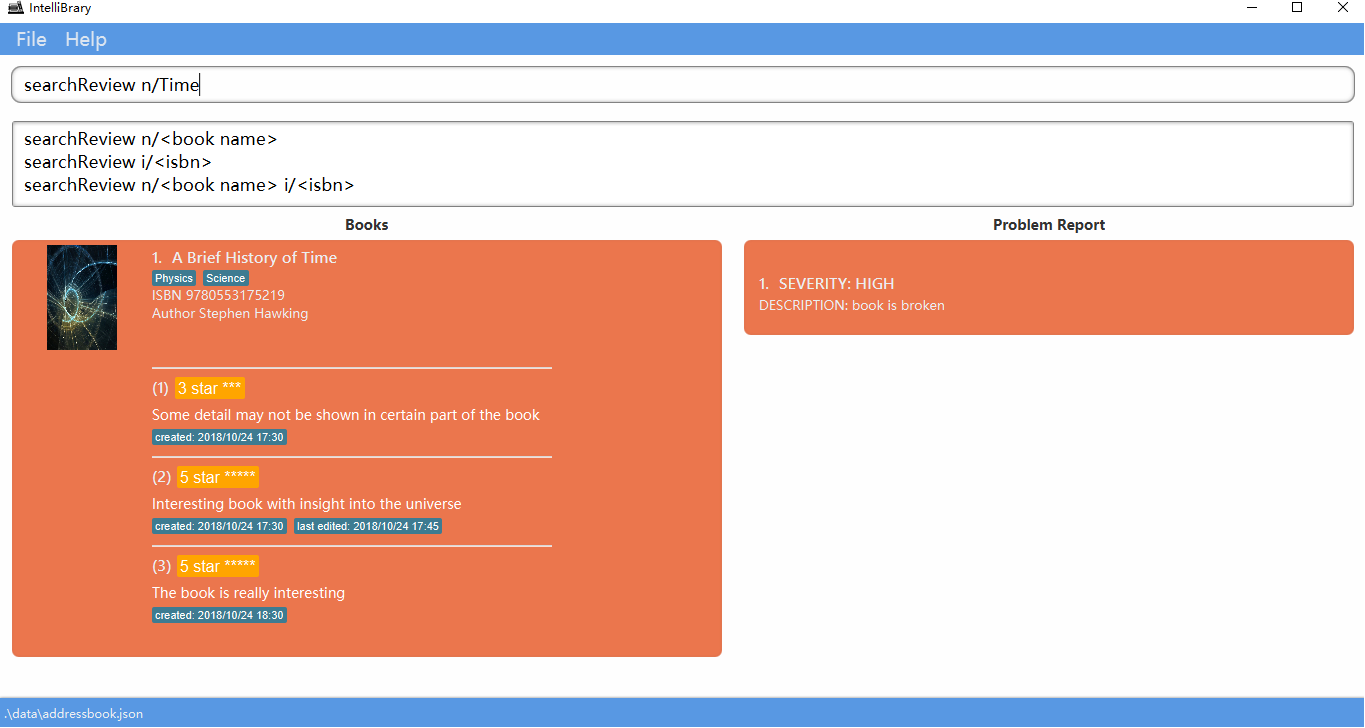
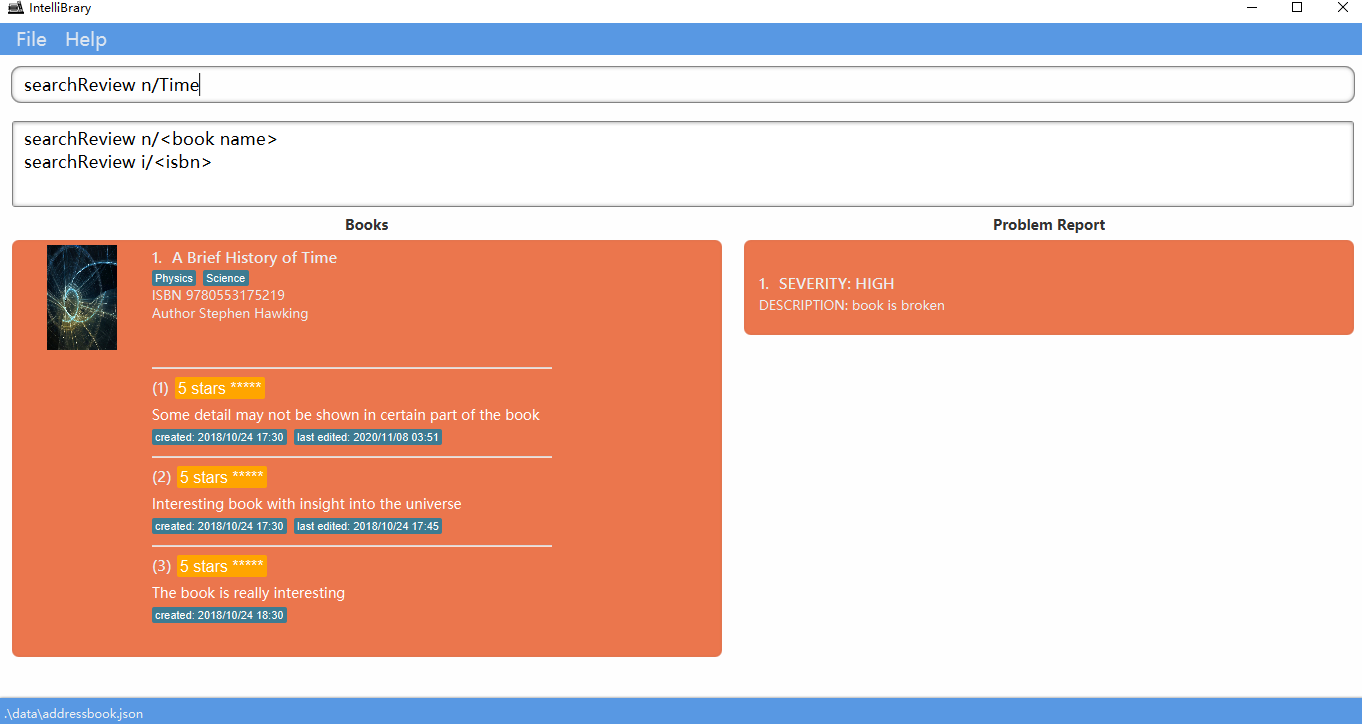
Implement the service

diff --git a/src/main/java/seedu/address/logic/parser/ParserUtil.java b/src/main/java/seedu/address/logic/parser/ParserUtil.java
@@ -194,36 +194,35 @@ public class ParserUtil {
 
         int count = matcher.groupCount();
         HashMap<String, Integer> stockingInLocation = new HashMap<>();
-        if (matcher.find() && Stocking.isValidStocking(stocking)) {
-            List<String> locations = Arrays.asList(Stocking.LOCATION);
-            locations.forEach((location) -> {
-                stockingInLocation.put(location, 0);
-            });
-            for (int i = 1; i <= count; i = i + 2) {
-                if ((matcher.group(i) == null && matcher.group(i + 1) != null)
-                        || (matcher.group(i) != null && matcher.group(i + 1) == null)) {
+        if (!matcher.find() || !Stocking.isValidStocking(stocking)) {
+            throw new ParseException(Stocking.MESSAGE_CONSTRAINTS);
+        }
+        List<String> locations = Arrays.asList(Stocking.LOCATION);
+        locations.forEach((location) -> {
+            stockingInLocation.put(location, 0);
+        });
+        for (int i = 1; i <= count; i = i + 2) {
+            if ((matcher.group(i) == null && matcher.group(i + 1) != null)
+                    || (matcher.group(i) != null && matcher.group(i + 1) == null)) {
+                throw new ParseException(Stocking.MESSAGE_CONSTRAINTS);
+            }
+            if (matcher.group(i) != null && matcher.group(i + 1) != null) {
+                String currentLocation = matcher.group(i).strip();
+                int currentCount;
+                try {
+                    currentCount = Integer.parseInt(matcher.group(i + 1).strip());
+                } catch (Exception exception) {
                     throw new ParseException(Stocking.MESSAGE_CONSTRAINTS);
                 }
-                if (matcher.group(i) != null && matcher.group(i + 1) != null) {
-                    String currentLocation = matcher.group(i).strip();
-                    int currentCount;
-                    try {
-                        currentCount = Integer.parseInt(matcher.group(i + 1).strip());
-                    } catch (Exception exception) {
-                        throw new ParseException(Stocking.MESSAGE_CONSTRAINTS);
-                    }
-                    if (currentCount < 0 || currentCount > 9999999) {
-                        throw new ParseException(Stocking.NUMBER_CONSTRAINTS);
-                    }
-                    locations.forEach((location) -> {
-                        if (location.toUpperCase().equals(currentLocation.toUpperCase())) {
-                            stockingInLocation.put(location, currentCount);
-                        }
-                    });
+                if (currentCount < 0 || currentCount > 9999999) {
+                    throw new ParseException(Stocking.NUMBER_CONSTRAINTS);
                 }
+                locations.forEach((location) -> {
+                    if (location.toUpperCase().equals(currentLocation.toUpperCase())) {
+                        stockingInLocation.put(location, currentCount);
+                    }
+                });
             }
-        } else {
-            throw new ParseException(Stocking.MESSAGE_CONSTRAINTS);
         }
         return new Stocking(stockingInLocation);
     }

diff --git a/src/main/java/seedu/address/ui/BookReviewCard.java b/src/main/java/seedu/address/ui/BookReviewCard.java
@@ -27,7 +27,11 @@ public class BookReviewCard extends UiPart<Region> {
     public BookReviewCard(Review review, int displayedIndex) {
         super(FXML);
         id.setText("(" + displayedIndex + ")");
-        String ratingStar = review.getRating().ratingNumber + " star ";
+        String ratingStar = review.getRating().ratingNumber + " star";
+        if (review.getRating().ratingNumber > 1) {
+            ratingStar = ratingStar + "s";
+        }
+        ratingStar = ratingStar + " ";
         for (int i = 0; i < review.getRating().ratingNumber; i = i + 1) {
             ratingStar = ratingStar + "*";
         }

diff --git a/docs/UserGuide.md b/docs/UserGuide.md
@@ -279,16 +279,12 @@ The reason for the design used is that the searching can be more consistent. The
 If both the name and the ISBN are used in the command, then the result will be the stocking information of the books that satisfy **both** of the conditions.
 
 If neither of them are present, then the command will return the stocking information of all the books.
-
-If the value after the prefix is empty, then the command will return the stocking information of all the books.
-
-For example, the command stock n/ and the command stock i/ will return the stocking information of all the books.
 </div>
 
 Examples:
-* `stock n/A brief history of time i/9780553175219`
 * `stock n/A brief history of time`
 * `stock i/9780553175219`
+* `stock`
 
 Visual Example:
 
@@ -326,7 +322,6 @@ The review list of the book with no review will be empty.
 </div>
 
 Examples:
-* `searchReview n/A brief history of time i/9780553175219`
 * `searchReview n/A brief history of time`
 * `searchReview i/9780553175219`
 * `searchReview`
@@ -347,7 +342,9 @@ The book review will be added according to the index of the book in the current 
 
 The rating needs to be a string representing an integer from 0 to 5.
 
-The review content should not be empty and it should not contain more than 300 characters.
+The review content should not be empty and it should not contain more than 300 characters, excluding the leading and trailing white space.
+
+If more than 1 `ra/` is present, then only the last `ra/` will be used. This is similar for `re/`.
 
 If other command is executed before the add review command, then only the index corresponding to the book shown in the current book list will be valid.
 
@@ -387,7 +384,9 @@ The explanation about index is similar to add review and delete review command.
 
 If neither rating or review content is present, then an exception message will be shown.
 
-If the edited review is the same as the original review, then a corresponding exception message will be shown. 
+If the edited review is the same as the original review, then a corresponding exception message will be shown.
+
+If more than 1 `ra/` is present, then only the last `ra/` will be used. This is similar for `re/`.
 </div>
 
 Examples:
